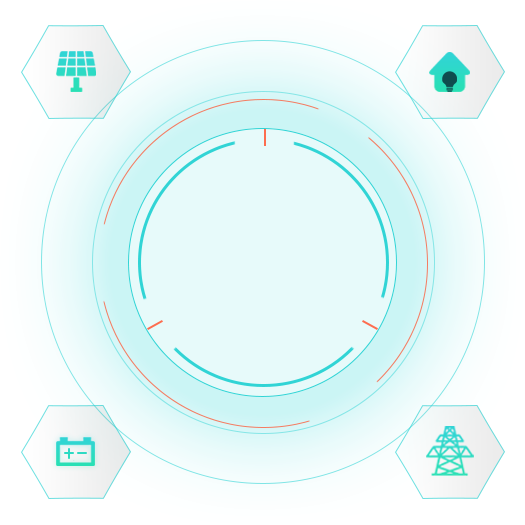
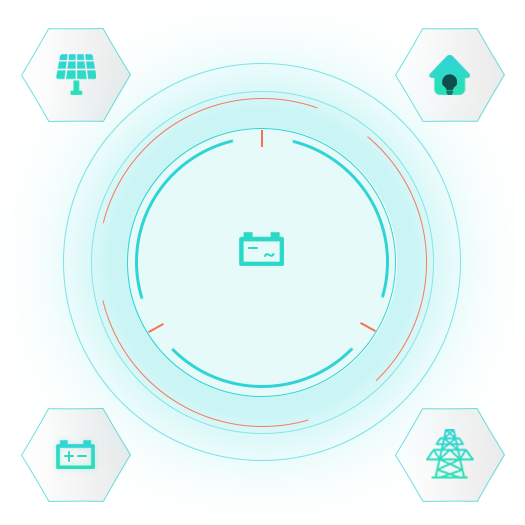
edit 修改图片 布局

diff --git a/src/pages/common/Home/index.jsx b/src/pages/common/Home/index.jsx
@@ -1,5 +1,6 @@
 import React, { useState, useEffect } from 'react';
 import './style.less';
+import { connect } from 'umi';
 import {
   recentPowerAxisConfig,
   powerMoneyAxisConfig,
@@ -22,6 +23,8 @@ import sandglass from '@/static/img/home/left/sandglass.gif';
 import shine from '@/static/img/home/left/shine.png';
 import debounce from 'lodash/debounce';
 
+const mapStateToProps = ({ home }) => home;
+
 const IconTitle = props => {
   return (
     <div className="iconTitle">
@@ -39,10 +42,19 @@ const resize = debounce(() => {
 }, 500);
 
 const Home = props => {
+  console.log(' Home ： ', props); //
   const [isShowRealData, setIsShowRealData] = useState(false);
   // const [isShowRealData, setIsShowRealData] = useState(true);
 
   const toggleShowRealData = params => setIsShowRealData(!isShowRealData);
+
+  useEffect(() => {
+    console.log(' useEffect  ： ');
+    // props.dispatch({
+    //   type: 'home/getTemperatureHumidityAsync',
+    // })
+    props.getTemperatureHumidityAsync();
+  }, []);
 
   useEffect(() => {
     console.log(' useEffect 更新 ： ');
@@ -143,4 +155,10 @@ const Home = props => {
   );
 };
 
-export default Home;
+export default connect(mapStateToProps, dispatch => {
+  return {
+    getTemperatureHumidityAsync: () => {
+      dispatch({ type: 'home/getTemperatureHumidityAsync' });
+    },
+  };
+})(Home);

diff --git a/src/models/home.js b/src/models/home.js
@@ -1,18 +1,42 @@
 import { init } from '@/utils/createAction';
+import * as services from '@/services/home';
 
 const namespace = 'home';
-const { createActions, createAction } = init(namespace);
+const { createAction } = init(namespace);
 
 export const mapStateToProps = state => state[namespace];
 
 const model = {
   namespace,
 
-  state: {},
+  state: {
+    temperatureHumidityInfo: {},
+  },
 
-  reducers: {},
+  reducers: {
+    getTemperatureHumidity(state, { payload, type }) {
+      console.log(' getTemperatureHumidityAsync ： ', state, payload);
+      return {
+        ...state,
+        temperatureHumidityInfo: payload.data,
+      };
+    },
+  },
 
-  effects: {},
+  effects: {
+    *getTemperatureHumidityAsync(
+      { payload = {}, action, type },
+      { call, put },
+    ) {
+      console.log(' getTemperatureHumidityAsync ： ', payload, action, type);
+      const res = yield call(services.getTemperatureHumidity, payload);
+      yield put({
+        type: 'home/getTemperatureHumidity',
+        ...res,
+        payload,
+      });
+    },
+  },
 };
 
 export const actions = createAction(model);

diff --git a/src/pages/common/Home/PowerInfo/style.less b/src/pages/common/Home/PowerInfo/style.less
@@ -66,10 +66,10 @@
   }
   .innerWrapper {
     position: absolute;
-    top: 15%;
-    right: 15%;
-    bottom: 15%;
-    left: 15%;
+    top: 20%;
+    right: 20%;
+    bottom: 20%;
+    left: 20%;
     overflow: hidden;
   }
 
@@ -184,18 +184,18 @@
   .centerMachineIcon {
     position: absolute;
     top: 50%;
-    z-index: 1;
-    background: #0f5759;
-    // padding: 12px;
-    padding: 8px;
-    border-radius: 50%;
     top: 48%;
     // top: 54%;
     left: 50%;
+    z-index: 1;
     display: flex;
     flex-direction: column;
+    // padding: 12px;
+    padding: 8px;
     color: #11d0d2;
     text-align: center;
+    background: #0f5759;
+    border-radius: 50%;
     transform: translate(-50%, -50%);
     .centerIcon {
       width: inherit;
@@ -208,17 +208,16 @@
 // .powerInfo {
 .machineCircle {
   position: relative;
-  // background: #31D4D5;
-  z-index: 10;
-  display: flex;
-  flex: 1;
   // padding: 20px;
 
-  
   top: 10%;
   right: 0%;
   bottom: 0%;
   left: 0%;
+  // background: #31D4D5;
+  z-index: 10;
+  display: flex;
+  flex: 1;
   .leftBox {
     flex: 1;
     margin-right: 10px;

diff --git a/src/services/home.js b/src/services/home.js
@@ -1,19 +1,9 @@
-import {
-  get,
-  post,
-  put,
-  remove,
-  noTipsGet,
-  noTipsPost,
-  noTipsPut,
-  noTipsRemove,
-} from '@/utils/request';
+import { req } from '@/utils/request';
 
-export const getStatistic = p =>
-  noTipsGet(`console/home_page/web_statistic`, p);
-export const getOrdersChart = p => noTipsGet(`console/home_page/order_data`, p);
-export const getInspectionsChart = p =>
-  noTipsGet(`console/home_page/inspection_task_data`, p);
-export const getPendingOrders = p => noTipsGet(`console/home_page/orders`, p);
-export const getInspectionTasks = p =>
-  noTipsGet(`console/home_page/inspection_tasks`, p);
+export const get = p => req.noTipsGet(`/acrel/ADW300`, p);
+// 物联网温湿度验证
+export const getTemperatureHumidityverify = p => req.noTipsGet(`/ots/th`, p);
+// 物联网温湿度接收
+export const addTemperatureHumidity = p => req.post(`/ots/th`, p);
+// 获取最新温湿度数据
+export const getTemperatureHumidity = p => req.noTipsGet(`/ots/th/record`, p);

diff --git a/src/pages/common/Home/style.less b/src/pages/common/Home/style.less
@@ -66,19 +66,19 @@
     }
     .energyCalc {
       display: flex;
-      flex: 5;
+      // flex: 5;
       margin-bottom: 10px;
     }
     .carbonAssets {
-      flex: 1;
       display: flex;
+      flex: 1;
       align-items: center;
       margin-bottom: 10px;
       overflow: initial;
       .sandglassWrapper {
-        margin-right: 20px;
         width: 30px;
         height: 40px;
+        margin-right: 20px;
         overflow: hidden;
       }
       .sandglass {

diff --git a/src/constants/index.js b/src/constants/index.js
@@ -41,8 +41,8 @@ export const screenPort = {
 export const BIG_SCREEN =
   protocol + '//' + hostname + `:${screenPort}/normal_screen`;
 
-export const TEST_URL = `/api/v1/`;
-export const PROXY_URL = `/api/v1/`;
+export const TEST_URL = ``;
+export const PROXY_URL = ``;
 // export const PROXY_URL = `/api/v1/cnosole/`;
 // export const BASE_URL = isDev ? PROXY_URL : TEST_URL;
 export const BASE_URL = isDev ? PROXY_URL : TEST_URL;

diff --git a/.umirc.js b/.umirc.js
@@ -75,8 +75,7 @@ export default defineConfig({
   },
   proxy: {
     '/api': {
-      target: 'http://188.131.235.243:31002',
-      // target: 'http://192.168.124.14:8001',
+      target: 'http://106.15.92.117:9510',
       changeOrigin: true,
       // pathRewrite: {
       //   '^/api': '',
